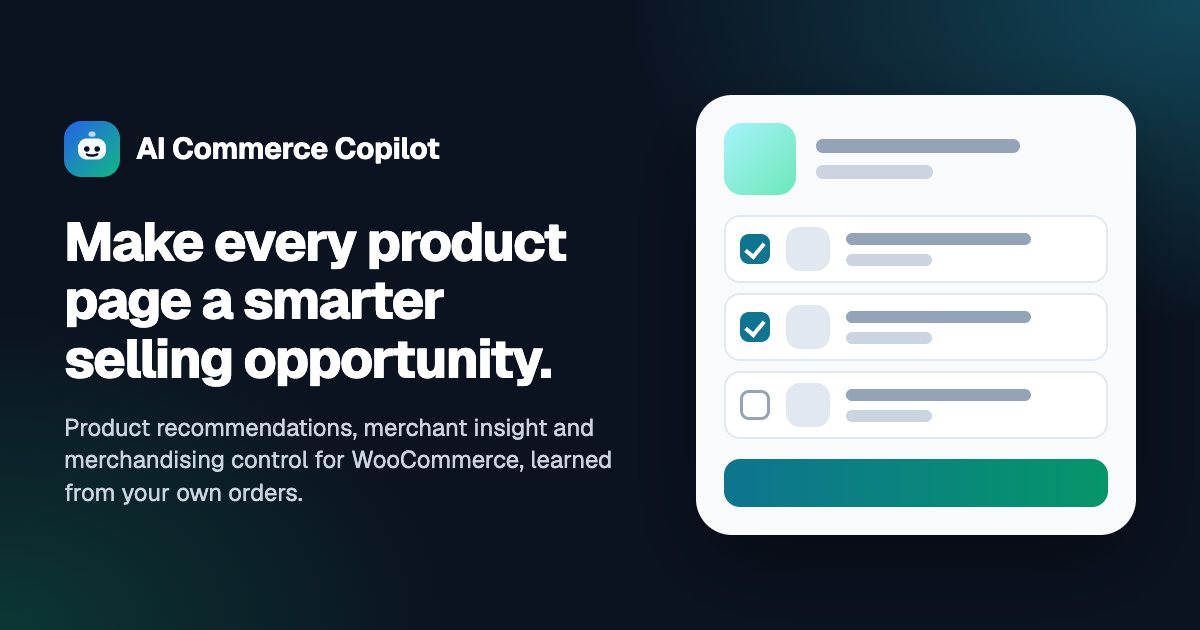
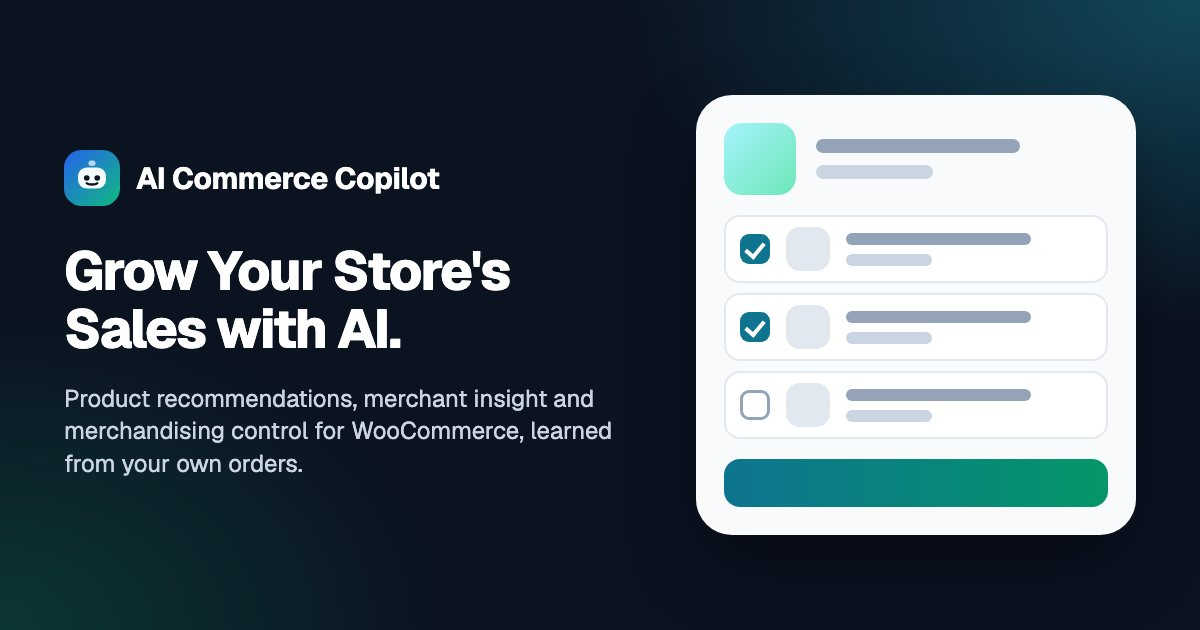
feat(site): P23 hero - outcome headline 'Grow Your Store's Sales with AI.', one-sentence subtitle, one muted no-guarantee line, in four languages
Owner decision (final). The category line and the explanatory paragraph leave the first screen (their facts are said by the Why, Workspace and Safety sections); the accent line carries the gradient; phones size the headline to the width; Russian is set a notch smaller on desktop. Home share images regenerated. he, es and ru are machine-assisted.

Changed region(s): [[0.0308, 0.181, 0.5242, 0.8143]]

diff --git a/src/styles/aicc.css b/src/styles/aicc.css
@@ -1182,7 +1182,6 @@ p > .aicc-link:only-child { display: inline-block; min-block-size: 1.5rem; paddi
 
 /* ── Positioning v3: outcome-led hero (one sentence, CTAs, one slim pillar line, muted purchase confidence) and the pillars strip ── */
 .aicc-hero__kicker { display: flex; flex-wrap: wrap; align-items: center; gap: 0.5rem 0.75rem; }
-.aicc-hero__category { color: var(--aicc-text-muted); font-size: var(--aicc-text-sm); font-weight: 600; }
 .aicc-hero__confidence { margin-block-start: 1.25rem; }
 .aicc-pillars { background: var(--aicc-surface); border-block: 1px solid var(--aicc-border); }
 .aicc-pillars__list { list-style: none; margin: 0; padding: 0; display: grid; grid-template-columns: minmax(0, 1fr); }
@@ -1205,8 +1204,6 @@ p > .aicc-link:only-child { display: inline-block; min-block-size: 1.5rem; paddi
 /* ═══ Conversion pass: outcome first, proof early, mobile as a first-class target ═══════════════════════════════════════════════════════════════════
    Site-only (nothing here touches the shared brand kit in brand/). Hero: lighter first viewport (the purchase-confidence line moved to the pricing section).
    Outcomes: cards on a phone. Versus: what shoppers see and what you see and control. */
-.aicc-hero__category { flex-basis: 100%; }
-@media (min-width: 40rem) { .aicc-hero__category { flex-basis: auto; } }
 @media (max-width: 39.99rem) {
   .aicc-hero { padding-block: 5.75rem 2.25rem; }
   .aicc-hero__grid { gap: 1.5rem; }
@@ -1249,7 +1246,6 @@ p > .aicc-link:only-child { display: inline-block; min-block-size: 1.5rem; paddi
 
 /* Hero wrapping polish (conversion pass revision): no stranded word in the headline on the narrowest phones, and a calmer last line in the shorter subheadline. */
 .aicc-hero-lead { text-wrap: pretty; }
-@media (max-width: 21.5rem) { .aicc-hero-title { font-size: 1.75rem; } }
 
 /* ── Early Access (Production 20) ─────────────────────────────────────────────────────────────────────────────
  * Rendered only by an Early Access build (src/lib/earlyAccess.ts). The three data attributes below are the whole time logic on the page:
@@ -1278,12 +1274,29 @@ html[data-ea-mode]:not([data-ea-over]) .aicc-hero { padding-block-start: calc(9r
 @media (min-width: 64rem) and (max-height: 47.5rem) { .aicc-hero-title { font-size: 3rem; } }
 /* P21: the headline is two sentences: the accent (the second one) starts its own line, so a line never ends on "More" with its noun on the next. fit-content keeps the gradient the width of the text. */
 .aicc-hero-title .aicc-text-gradient { display: block; inline-size: fit-content; max-inline-size: 100%; }
+/* ── P23 hero (owner decision, final): the headline states the outcome. Hierarchy, whitespace and wrapping only; the brand kit (brand/) is untouched.
+ * The headline is a lead line plus an accent line (the accent starts its own line, see above); the subtitle is ONE sentence; the no-guarantee line is small and muted under the actions.
+ * Sizes follow the width of the longest line of the English headline ("Grow Your Store's", 17 characters) between phone and desktop and are the brand's 3.75rem above that. */
+.aicc-hero__kicker { margin-block-end: 0; }
+.aicc-hero-title { margin-block-start: 1.25rem; line-height: 1.06; letter-spacing: -0.03em; text-wrap: balance; }
+.aicc-hero-lead { margin-block-start: 1.25rem; max-inline-size: 30rem; font-size: 1.25rem; line-height: 1.5; text-wrap: balance; }
+.aicc-hero-actions { margin-block-start: 2rem; }
+.aicc-hero-disclosure { margin: 1.25rem 0 0; max-inline-size: 30rem; font-size: 0.8125rem; line-height: 1.5; color: var(--aicc-text-muted); text-wrap: pretty; }
+.aicc-eanote + .aicc-hero-disclosure { margin-block-start: 0.75rem; }
+/* phones: the headline is scaled to the width so "Grow Your Store's" is one line down to 320 px; the subtitle is a little smaller; the actions and the note stay close to it */
+@media (max-width: 39.99rem) {
+  .aicc-hero-title { margin-block-start: 1rem; font-size: clamp(1.75rem, calc((100vw - 3rem) / 9.4), 2.5rem); line-height: 1.08; }
+  .aicc-hero-lead { margin-block-start: 0.9rem; font-size: 1.125rem; line-height: 1.5; }
+  .aicc-hero-actions { margin-block-start: 1.5rem; }
+  .aicc-hero-disclosure { margin-block-start: 1rem; }
+}
+/* the old 1.75rem floor below 344 px is replaced by the clamp above */
+/* Russian is set a notch smaller on desktop (Cyrillic is wider and its lead line, "Увеличивайте продажи", is 20 characters): three lines at the same visual weight instead of four. */
+@media (min-width: 64rem) { :root:lang(ru) .aicc-hero-title { font-size: min(3rem, calc((100vw - 7.5rem) / 24)); } }
 /* P21: above the fold of an Early Access build. The global bar already says the offer once; on a desktop or laptop screen of ordinary height (up to 56rem = 896 px) the hero is
- * compacted while the offer is live so the whole headline, the primary action and the fine print are on the first screen (1280 x 720). The category line is dropped (the pill
- * above the headline already says what the product is for) and the headline is set at 3rem instead of 3.75rem. Only while the campaign is live: the ended view and every normal build keep the standard hero. */
+ * compacted while the offer is live so the whole headline, the primary action and the fine print are on the first screen (1280 x 720). The headline is set at 3rem instead of 3.75rem. Only while the campaign is live: the ended view and every normal build keep the standard hero. */
 @media (min-width: 40rem) and (max-height: 56rem) {
   html[data-ea-mode]:not([data-ea-over]) .aicc-hero { padding-block: 2rem 3rem; }
-  html[data-ea-mode]:not([data-ea-over]) .aicc-hero__category { display: none; }
   html[data-ea-mode]:not([data-ea-over]) .aicc-hero-title { margin-block-start: 1rem; font-size: 3rem; }
   html[data-ea-mode]:not([data-ea-over]) .aicc-hero-lead { margin-block-start: 1rem; }
   html[data-ea-mode]:not([data-ea-over]) .aicc-hero-actions { margin-block-start: 1.5rem; }
@@ -1309,7 +1322,6 @@ html[data-ea-mode]:not([data-ea-over]) .aicc-pagehead { padding-block-start: cla
 .aicc-plan__free { margin: 0; font-size: 1.5rem; font-weight: 750; letter-spacing: -0.02em; line-height: 1.15; color: var(--aicc-success); }
 .aicc-plan__regular { margin: 0; color: var(--aicc-text-muted); font-weight: 600; font-variant-numeric: tabular-nums; }
 .aicc-plan__regular-label { font-weight: 500; }
-@media (max-width: 40rem) { html[data-ea-mode]:not([data-ea-over]) .aicc-hero__category { display: none; } }
 .aicc-plan__regular s { text-decoration-thickness: 2px; font-size: 1.15em; }
 .aicc-plan--compact .aicc-plan__free { font-size: 1.25rem; }
 .aicc-plan__ends { margin: 0; }

diff --git a/src/components/pages/HomePage.tsx b/src/components/pages/HomePage.tsx
@@ -37,13 +37,13 @@ export function HomePage({ locale, t }: { locale: Locale; t: Dictionary }) {
       <JsonLd data={softwareLd(locale, t)} />
       <JsonLd data={faqLd(locale, t, "home")} />
 
-      {/* 1. Hero: the live copilt.org composition (eyebrow, gradient headline, CTAs, animated Reco) */}
+      {/* 1. Hero (P23, owner decision): the outcome headline with its accent line, ONE subtitle sentence, the two truthful actions, one muted no-guarantee line, and the animated Reco.
+           The category line and the explanatory paragraph are gone from the first screen; their facts are said by the sections below (why, workspace, safety). */}
       <section className="aicc-hero" aria-labelledby="hero-title" {...fb("home.hero")}>
         <div className="aicc-hero__grid">
           <div className="aicc-hero__copy">
             <div className="aicc-hero__kicker aicc-fade-up" style={{ ["--i" as string]: 0 }}>
               <span className="aicc-eyebrow-pill">{h.hero.eyebrow}</span>
-              <span className="aicc-hero__category">{h.hero.category}</span>
             </div>
             <h1 id="hero-title" className="aicc-hero-title aicc-fade-up" style={{ ["--i" as string]: 1 }}>
               {h.hero.titleLead} <span className="aicc-text-gradient">{h.hero.titleAccent}</span>
@@ -64,6 +64,7 @@ export function HomePage({ locale, t }: { locale: Locale; t: Dictionary }) {
               )}
             </div>
             <EaHeroNote locale={locale} t={t} />
+            <p className="aicc-hero-disclosure aicc-fade-up" style={{ ["--i" as string]: 5 }}>{h.hero.disclosure}</p>
           </div>
           <div className="aicc-hero__visual">
             <div {...tx("brand.chips")}><RecoHero labels={[t.brand.chips.orders, t.brand.chips.clicks, t.brand.chips.recs, t.brand.chips.insights, t.brand.chips.bundles]} motion={t.brand.motion} /></div>

diff --git a/src/i18n/ru.ts b/src/i18n/ru.ts
@@ -487,10 +487,10 @@ export const ru: DeepPartial<Dictionary> = {
   home: {
     hero: {
       eyebrow: "Доступен для\u00a0WooCommerce",
-      category: "Ассистент по\u00a0товарным рекомендациям и\u00a0мерчандайзингу",
-      titleLead: "Более релевантные рекомендации.",
-      titleAccent: "Больше возможностей для\u00a0продаж.",
-      lead: "AICC учится на\u00a0ваших собственных заказах WooCommerce, размещает подходящие товары на\u00a0страницах товара и\u00a0корзины вашего магазина и\u00a0показывает в\u00a0панели, что он рекомендует. Правила задаёте вы. Оформление заказа никогда не\u00a0ждёт AICC.",
+      titleLead: "Увеличивайте продажи",
+      titleAccent: "вашего магазина с\u00a0помощью\u00a0ИИ.",
+      lead: "Превращайте товарные рекомендации в\u00a0дополнительные продажи, автоматически.",
+      disclosure: "AICC помогает создавать больше возможностей для\u00a0продаж. Он не\u00a0гарантирует никакого роста продаж или выручки; результаты зависят от\u00a0вашего магазина.",
       ctaDemo: "Посмотреть в\u00a0действии",
       ctaPlans: "Посмотреть планы",
     },

diff --git a/src/i18n/he.ts b/src/i18n/he.ts
@@ -487,10 +487,10 @@ export const he: DeepPartial<Dictionary> = {
   home: {
     hero: {
       eyebrow: "זמין ל־WooCommerce",
-      category: "קופיילוט להמלצות מוצרים ולמרצ׳נדייזינג בחנות",
-      titleLead: "המלצות רלוונטיות יותר.",
-      titleAccent: "יותר הזדמנויות למכור.",
-      lead: "AICC לומד מהזמנות ה־WooCommerce שלכם עצמכם, מציג מוצרים רלוונטיים בדפי המוצר והעגלה שלכם, ומציג בדשבורד שלכם מה הוא ממליץ. אתם קובעים את הכללים. ביצוע הזמנה לעולם לא ממתין ל־AICC.",
+      titleLead: "להגדיל את המכירות",
+      titleAccent: "בחנות שלכם בעזרת AI.",
+      lead: "הפכו המלצות על מוצרים למכירות נוספות, באופן אוטומטי.",
+      disclosure: "AICC עוזר ליצור יותר הזדמנויות מכירה. הוא אינו מבטיח כל עלייה במכירות או בהכנסות; התוצאות תלויות בחנות שלכם.",
       ctaDemo: "ראו את זה בפעולה",
       ctaPlans: "לצפייה בתוכניות",
     },

diff --git a/src/i18n/en.ts b/src/i18n/en.ts
@@ -510,10 +510,11 @@ export const en = {
   home: {
     hero: {
       eyebrow: "Available for WooCommerce",
-      category: "Commerce recommendation and merchandising copilot",
-      titleLead: "More relevant recommendations.",
-      titleAccent: "More opportunities to sell.",
-      lead: "AICC learns from your own WooCommerce orders, puts relevant products on your product and cart pages, and shows in your dashboard what it recommends. You set the rules. Placing an order never waits on AICC.",
+      // P23 (owner decision, final): the outcome is the headline; the one-sentence subtitle carries no mechanics (they are said in the sections below); the disclosure is the Terms clause in one line.
+      titleLead: "Grow Your Store's",
+      titleAccent: "Sales with AI.",
+      lead: "Turn product recommendations into more sales, automatically.",
+      disclosure: "AICC helps create more sales opportunities. It does not guarantee any increase in sales or revenue; results depend on your store.",
       ctaDemo: "See it in action",
       ctaPlans: "View plans",
     },

diff --git a/src/i18n/es.ts b/src/i18n/es.ts
@@ -493,10 +493,10 @@ export const es: DeepPartial<Dictionary> = {
     connectorNote: "Un panel de ejemplo con el estilo de la administración de AICC",
     hero: {
       eyebrow: "Disponible para WooCommerce",
-      category: "Copiloto de recomendaciones y merchandising",
-      titleLead: "Recomendaciones más relevantes.",
-      titleAccent: "Más oportunidades de vender.",
-      lead: "AICC aprende de sus propios pedidos de WooCommerce, pone productos relevantes en sus páginas de producto y de carrito, y muestra en su panel qué recomienda. Usted fija las reglas. Hacer un pedido nunca espera a AICC.",
+      titleLead: "Aumente las ventas",
+      titleAccent: "de su tienda con IA.",
+      lead: "Convierta las recomendaciones de productos en más ventas, de forma automática.",
+      disclosure: "AICC ayuda a crear más oportunidades de venta. No garantiza ningún aumento de las ventas ni de los ingresos; los resultados dependen de su tienda.",
       ctaDemo: "Véalo en acción",
       ctaPlans: "Ver planes",
     },
